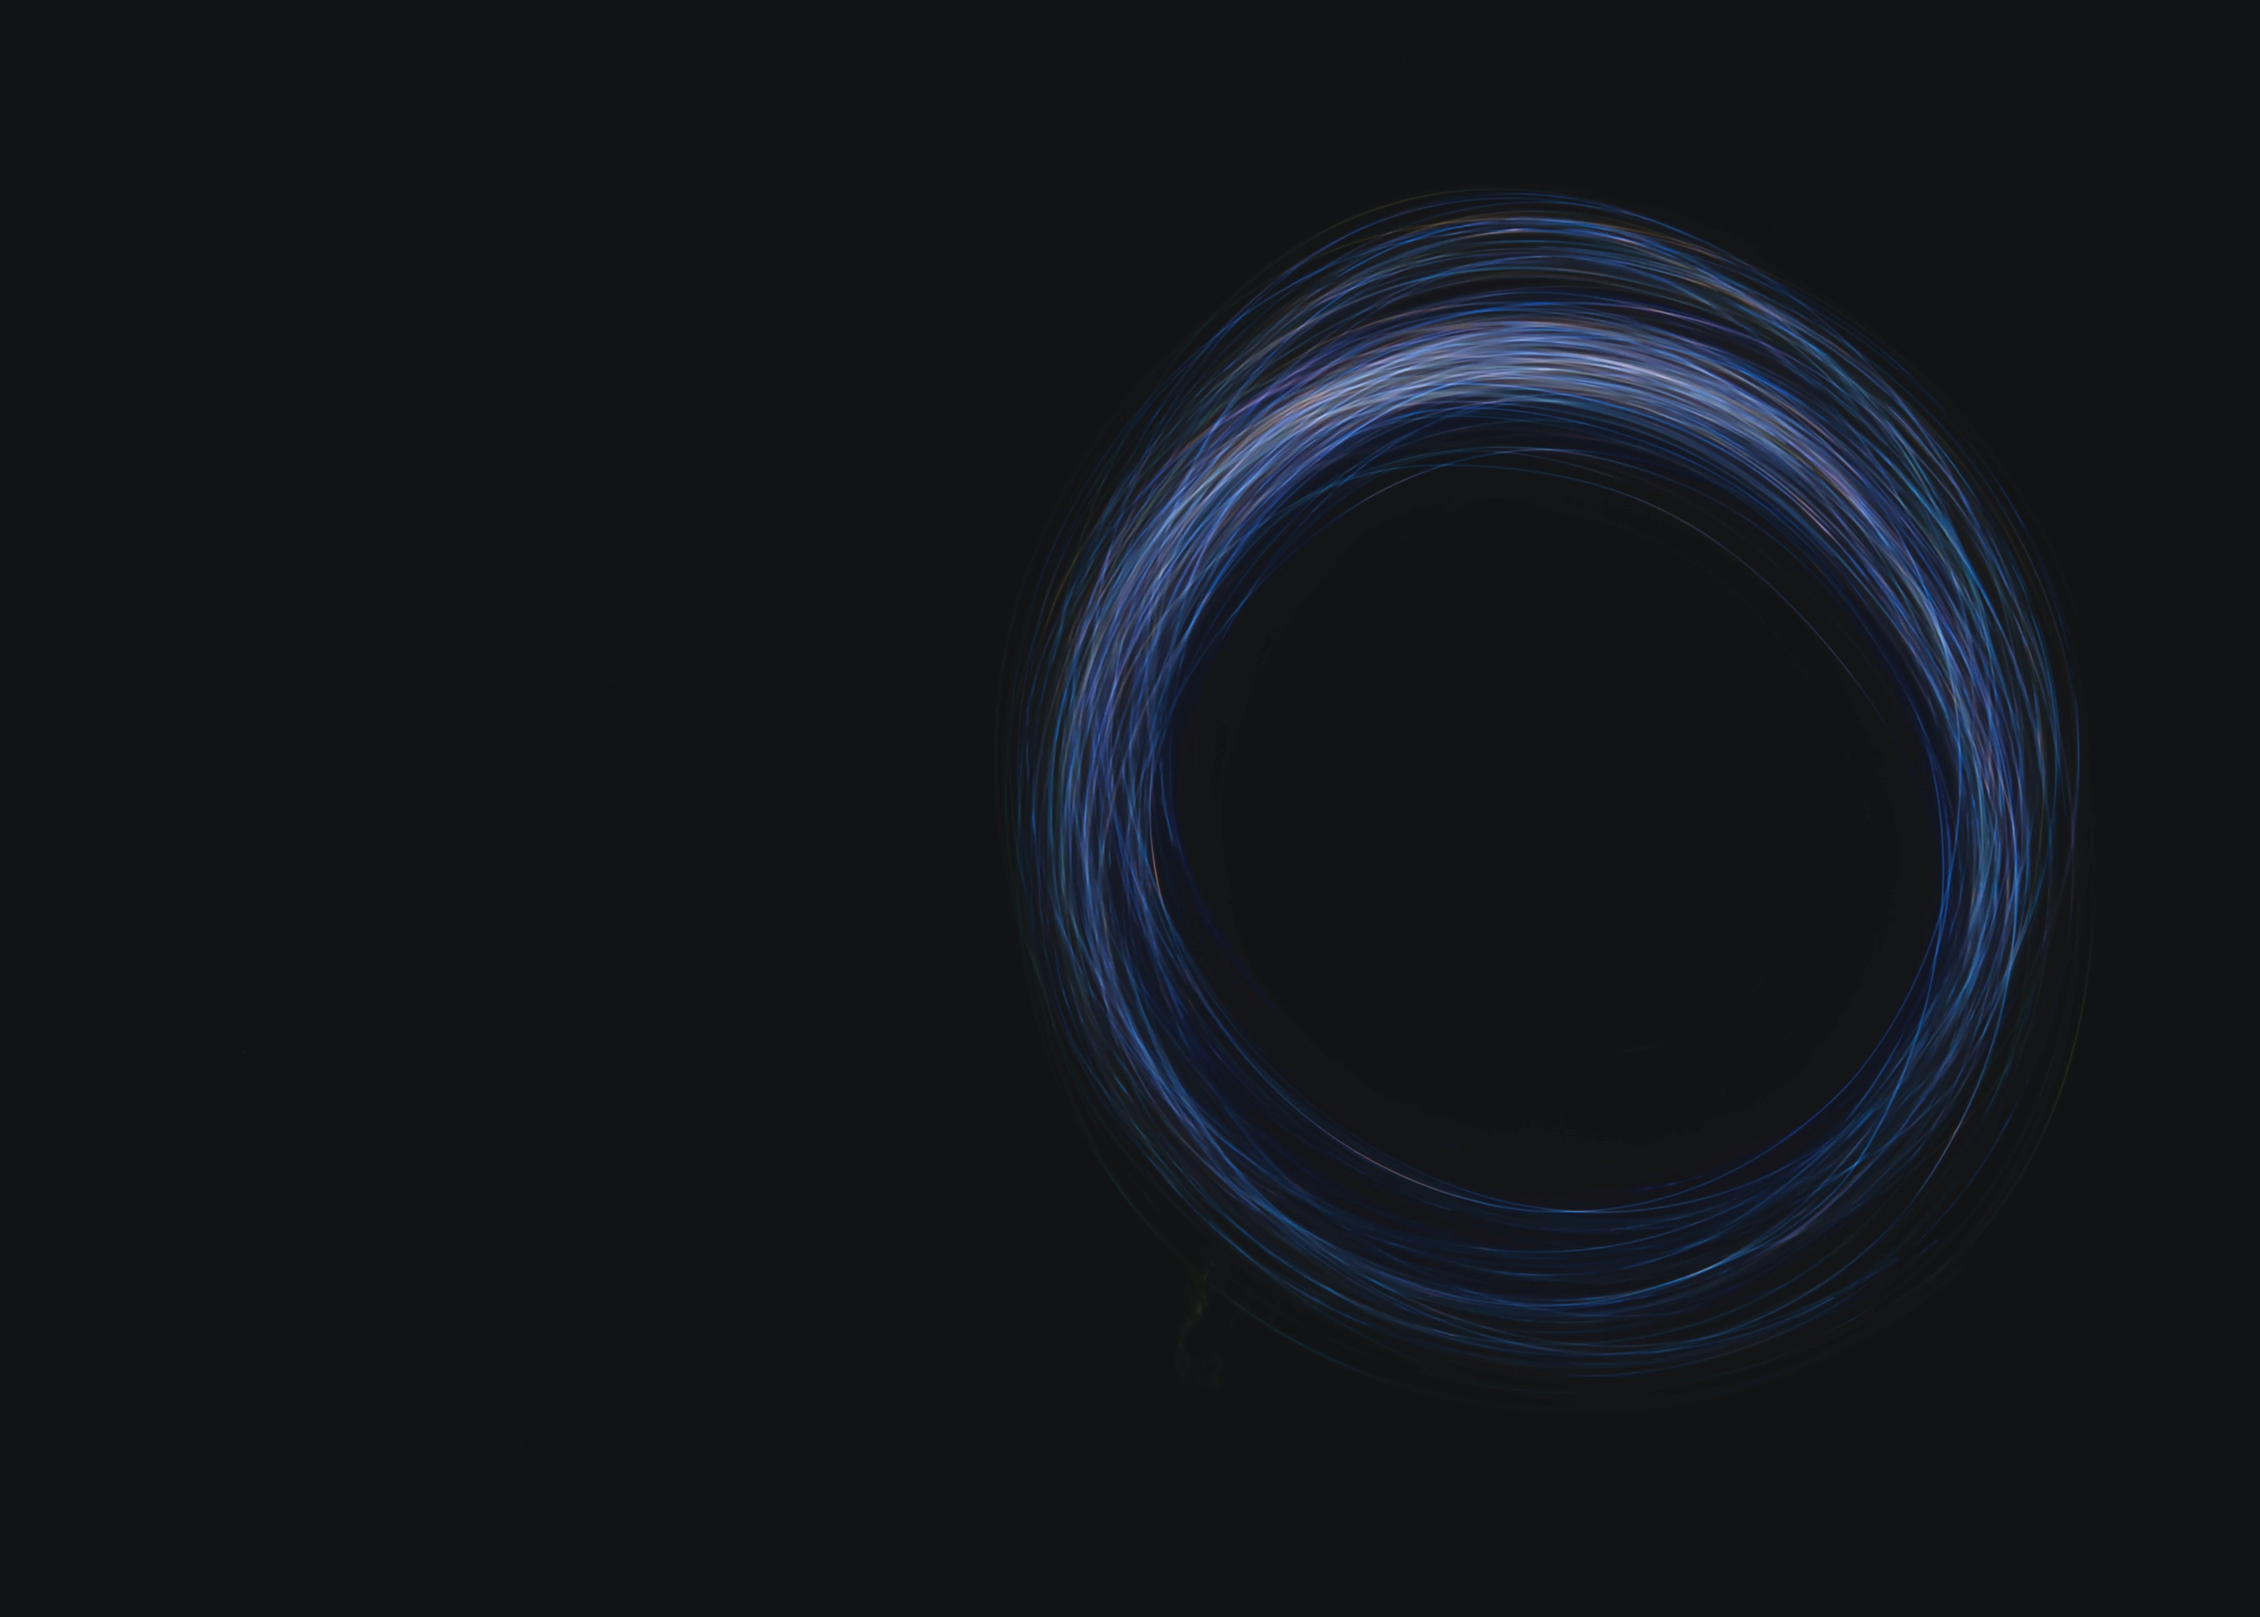
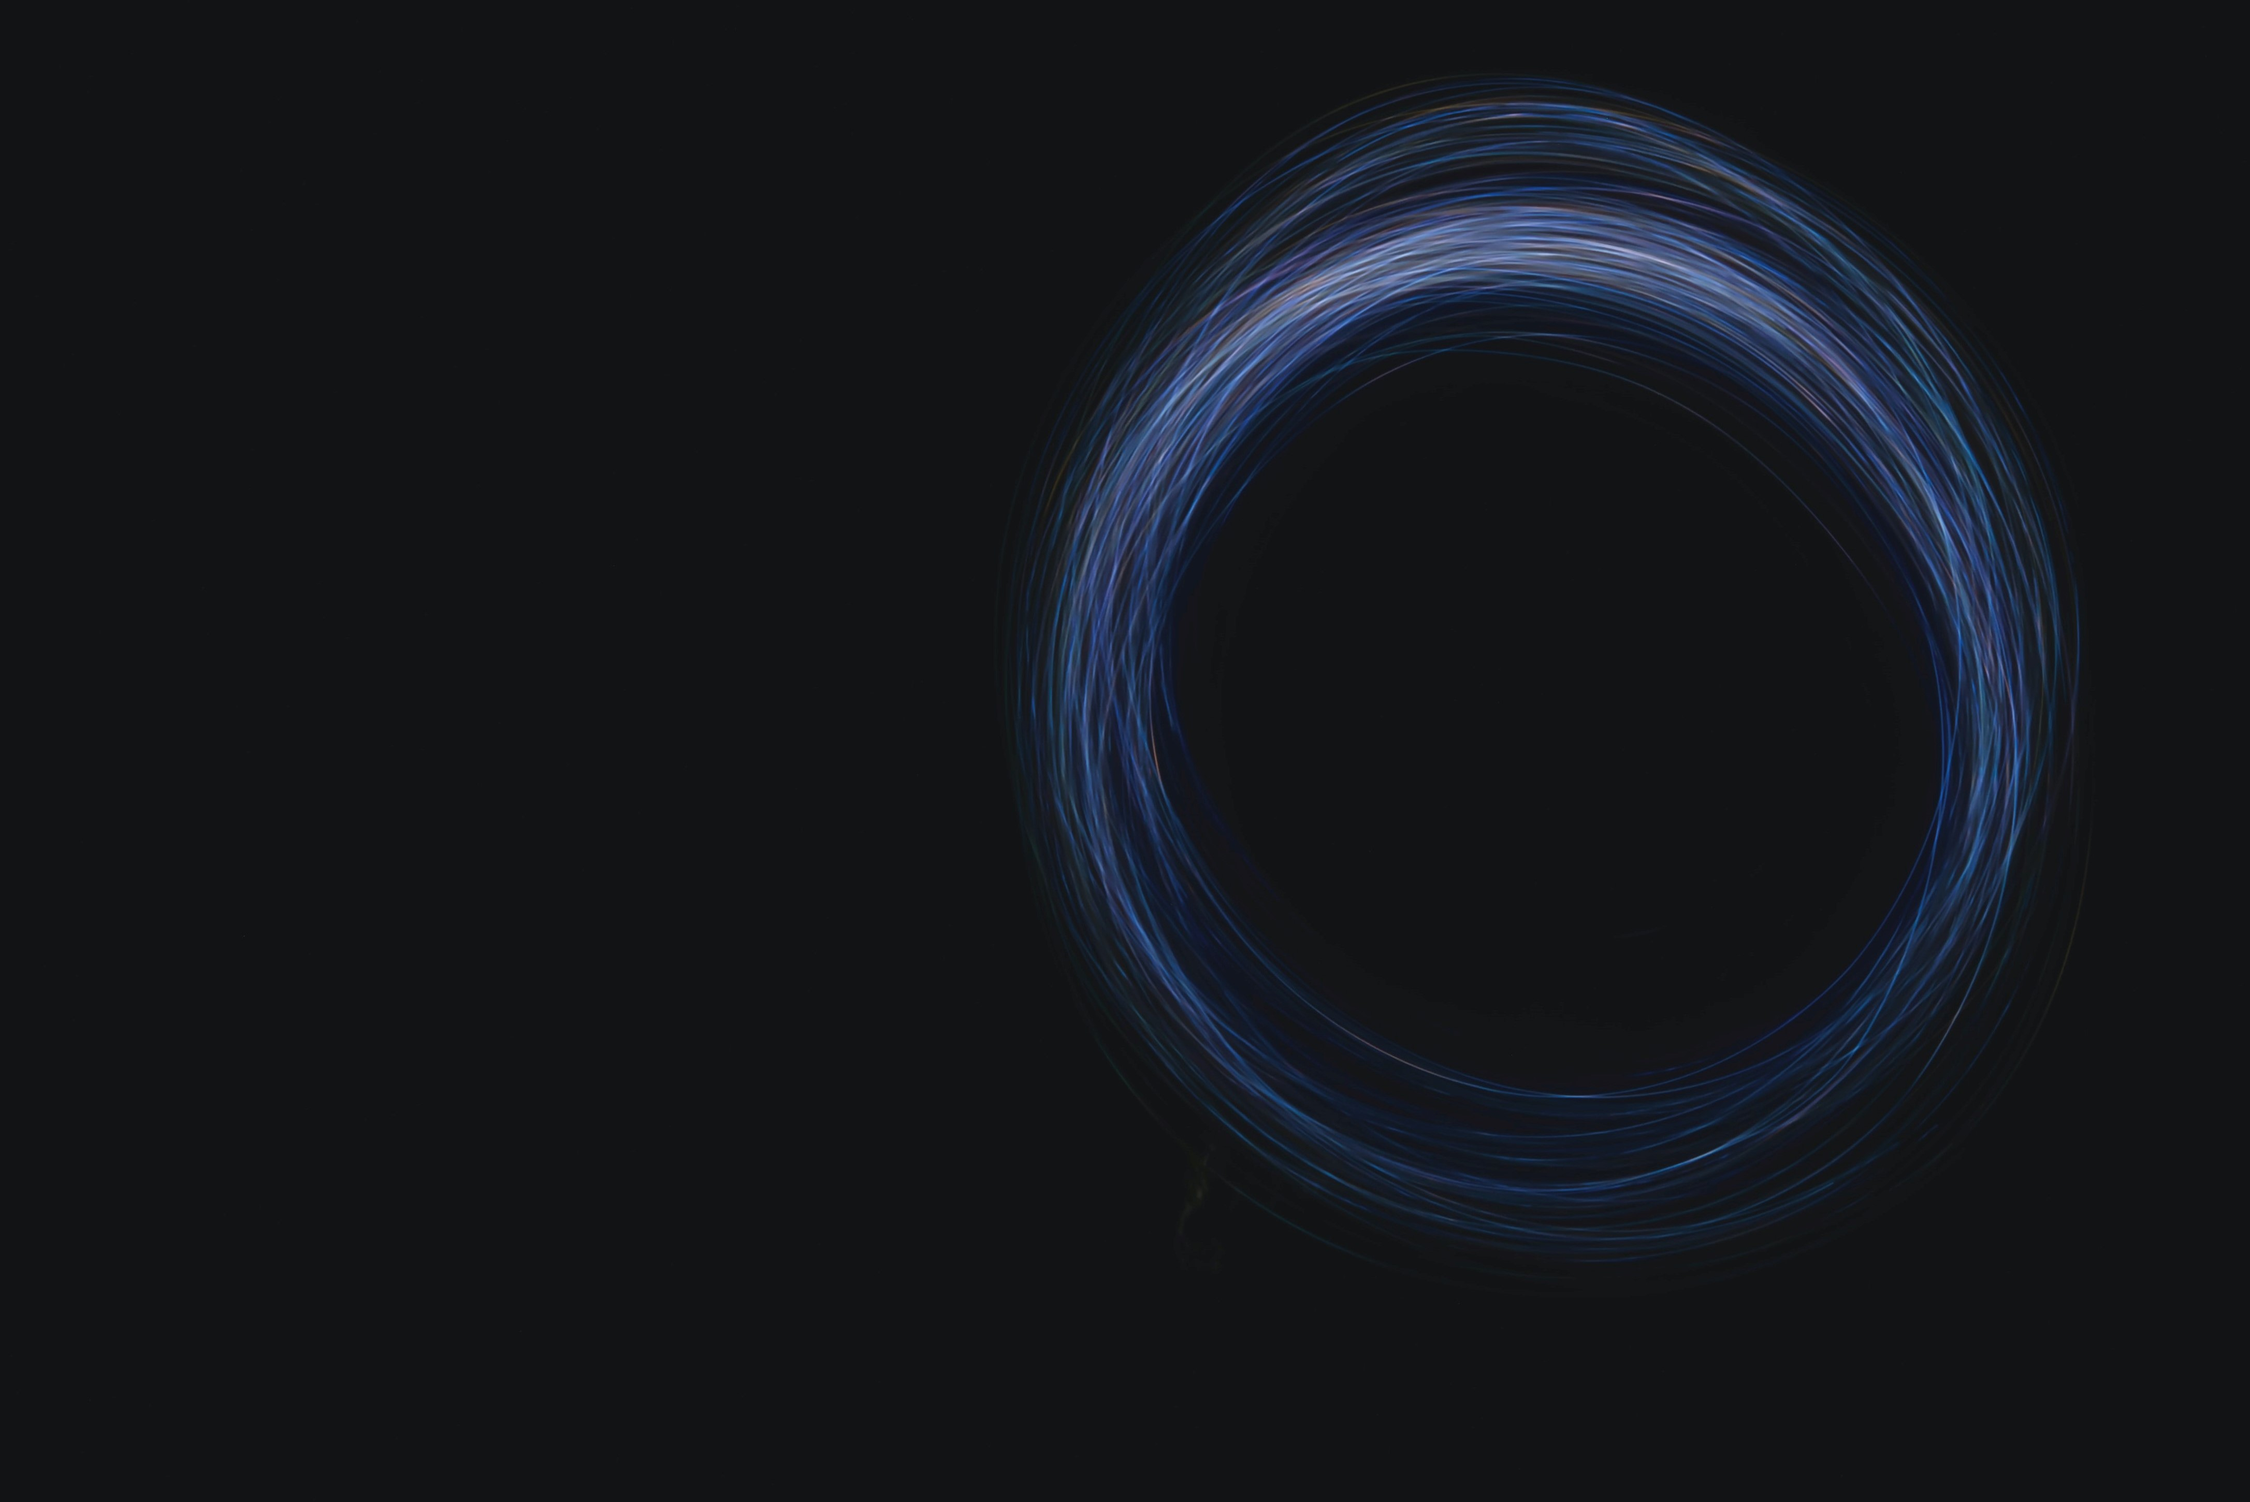
updating styling to match wireframe

Changed region(s): [[0.435, 0.031, 0.9321, 0.8379]]

diff --git a/src/components/home/Section1.vue b/src/components/home/Section1.vue
@@ -1,20 +1,12 @@
 <template>
   <div class="outer">
-    <b-container class="d-flex align-items-center flex-column">
+    <b-container class="container d-flex align-items-center flex-row">
       <div class="intro d-flex flex-column align-items-left">
       <h2 class="headline">
         Gauntlet Designs
       </h2>
+        <p CLASS="subtext">AND DEVELOPMENT</p>
         <p class="tagline">Design. Build. Maintain</p>
-      <p class="text">
-        Welcome to Gauntlet Designs. We design, build, and host custom websites to fit your needs. Be that a small
-        family owned business, or a enterprise looking to expand. We are a female owned business located in the DC Metro
-        Area. Our products are clean, light, responsive and fully customizable to meet your business needs.
-      </p>
-      </div>
-
-      <div>
-        <b-img></b-img>
       </div>
     </b-container>
       <Navbar/>
@@ -34,17 +26,33 @@ export default {
 
 <style scoped lang="scss">
 .outer {
-  background-color: $background-accent;
+  background-image: url("../../assets/blue.jpg");
+  min-height: 600px;
+  background-attachment: fixed;
+  background-position: center;
+  background-repeat: no-repeat;
+  background-size: cover;
+}
+
+.container {
+ padding-top: 50px;
+ margin-bottom: 40vh;
 }
 
 .text {
   color: $light-text;
   font-family: 'Montserrat', sans-serif;
   padding-bottom: 40px;
+  max-width: 500px;
+}
+
+.subtext {
+  font-family: 'Montserrat', sans-serif;
+  letter-spacing: 8px;
+  padding-bottom: 20px;
 }
 
 .headline {
-  padding-top: 60px;
   text-transform: uppercase;
   font-size: 40px;
   letter-spacing: 10px;
@@ -54,6 +62,7 @@ export default {
   font-size: 20px;
   padding-bottom: 40px;
   color: $info;
+  font-weight: bold;
 }
 
 .intro {

diff --git a/src/views/Home.vue b/src/views/Home.vue
@@ -1,26 +1,38 @@
 <template>
-<div>
-  <Section1/>
-  <Section2/>
-  <Section3/>
-  <home-trinity/>
-</div>
+  <div>
+    <Section1 />
+    <div class="d-flex">
+      <div>
+        <section4 />
+        <Section2 />
+        <Section3 />
+      </div>
+      <Logo class="logo" text />
+    </div>
+    <home-trinity />
+  </div>
 </template>
 
 <script>
 import Section1 from "../components/home/Section1";
 import Section2 from "../components/home/Section2";
 import Section3 from "../components/home/Section3";
-import Navbar from "@/components/Navbar";
 import HomeTrinity from "@/components/home/home-trinity";
+import Section4 from "@/components/home/Section4";
+import Logo from "@/components/Logo";
 export default {
   name: "Home",
-  components: {HomeTrinity, Section3, Section2, Section1}
-}
+  components: { Logo, Section4, HomeTrinity, Section3, Section2, Section1 },
+};
 </script>
 
 <style scoped lang="scss">
-  p {
-    font-family: 'Montserrat', sans-serif;
-  }
+p {
+  font-family: "Montserrat", sans-serif;
+}
+
+.logo {
+  width: 100%;
+  height: auto;
+}
 </style>

diff --git a/src/components/home/Section4.vue b/src/components/home/Section4.vue
@@ -1,19 +1,19 @@
 <template>
   <div class="outer">
     <b-container class="d-flex flex-column align-items-left">
-      <h2>Consulting</h2>
-      <div class="text">
-        Don't need a website, but instead looking for expertise and assistance for your existing web infrastructure? We
-        can help with that to. We have professional work experience with AWS, Google Cloud, and Azure. Along with modern
-        Javascript frameworks, and web application backends.
-      </div>
+      <h2>Welcome</h2>
+      <p class="text">
+        Welcome to Gauntlet Designs. We design, build, and host custom websites to fit your needs. Be that a small
+        family owned business, or a enterprise looking to expand. We are a female owned business located in the DC Metro
+        Area. Our products are clean, light, responsive and fully customizable to meet your business needs.
+      </p>
     </b-container>
   </div>
 </template>
 
 <script>
 export default {
-  name: "Section3"
+  name: "Section4"
 }
 </script>
 

diff --git a/src/components/Navbar.vue b/src/components/Navbar.vue
@@ -1,5 +1,5 @@
 <template>
-  <b-navbar sticky variant="danger" type="dark" toggleable="lg">
+  <b-navbar class="navbar"sticky type="dark" toggleable="lg">
     <b-navbar-brand :to="{name: 'home'}"><h1><logo/></h1></b-navbar-brand>
     <b-navbar-toggle target="nav-collapse"></b-navbar-toggle>
     <b-collapse id="nav-collapse" is-nav>
@@ -23,13 +23,12 @@ export default {
 
 <style scoped lang="scss">
  .nav-item:hover, .nav-item:active {
-    border-bottom: 3px solid $info;
+    border-bottom: 3px solid $accent;
  }
 
  .nav-item {
-   border-bottom: 3px solid $danger;
+   border-bottom: 3px solid transparent;
    font-family: 'Montserrat', sans-serif;
-   font-weight: bold;
    font-size: 16px;
    text-transform: uppercase;
    letter-spacing: 8px;
@@ -37,5 +36,9 @@ export default {
 
  h1 {
    margin-bottom: unset;
+ }
+
+ .navbar {
+   background-color: $secondary-transparent;
  }
 </style>

diff --git a/src/components/home/Section2.vue b/src/components/home/Section2.vue
@@ -1,7 +1,7 @@
 <template>
   <div class="outer">
     <b-container class="d-flex flex-column align-items-left">
-      <h2 class="text">We Make It Simple</h2>
+      <h2>We Make It Simple</h2>
       <div class="text">
         Building a website is hard and time consuming. Let us take all the hard work off your hands.
         We work with you to make sure that you get the stunning website that you want, while still having time to do
@@ -20,7 +20,7 @@ export default {
 <style scoped lang="scss">
 .outer {
   background-color: $background;
-  padding: 60px 0px 0px 60px;
+  padding: 60px 0px 30px 60px;
 }
 
 .text {
@@ -28,5 +28,10 @@ export default {
   text-align: left;
   max-width: 40%;
   font-family: 'Montserrat', sans-serif;
+}
+
+h2 {
+  font-family: 'Montserrat', sans-serif;
+  letter-spacing: 5px;
 }
 </style>

diff --git a/src/variables.scss b/src/variables.scss
@@ -1,7 +1,8 @@
 $primary: #606472;
-$secondary: #2a7ea8;
-$info: #BAD4EB;
-$danger: rgba(92, 176, 248, 0.4);
+$secondary: #5CB0F8;
+$secondary-light: #90ccff;
+$secondary-transparent: rgba(92, 176, 248, 0.54);
+$accent: #b22650;
 
 // background-colors
 $background: #F2F4F7;
@@ -13,4 +14,7 @@ $light-text: #789FC1;
 $dark-text: #141517;
 
 //Font
+
+//Bootstrap Mods
+$info: $secondary-light;
 
